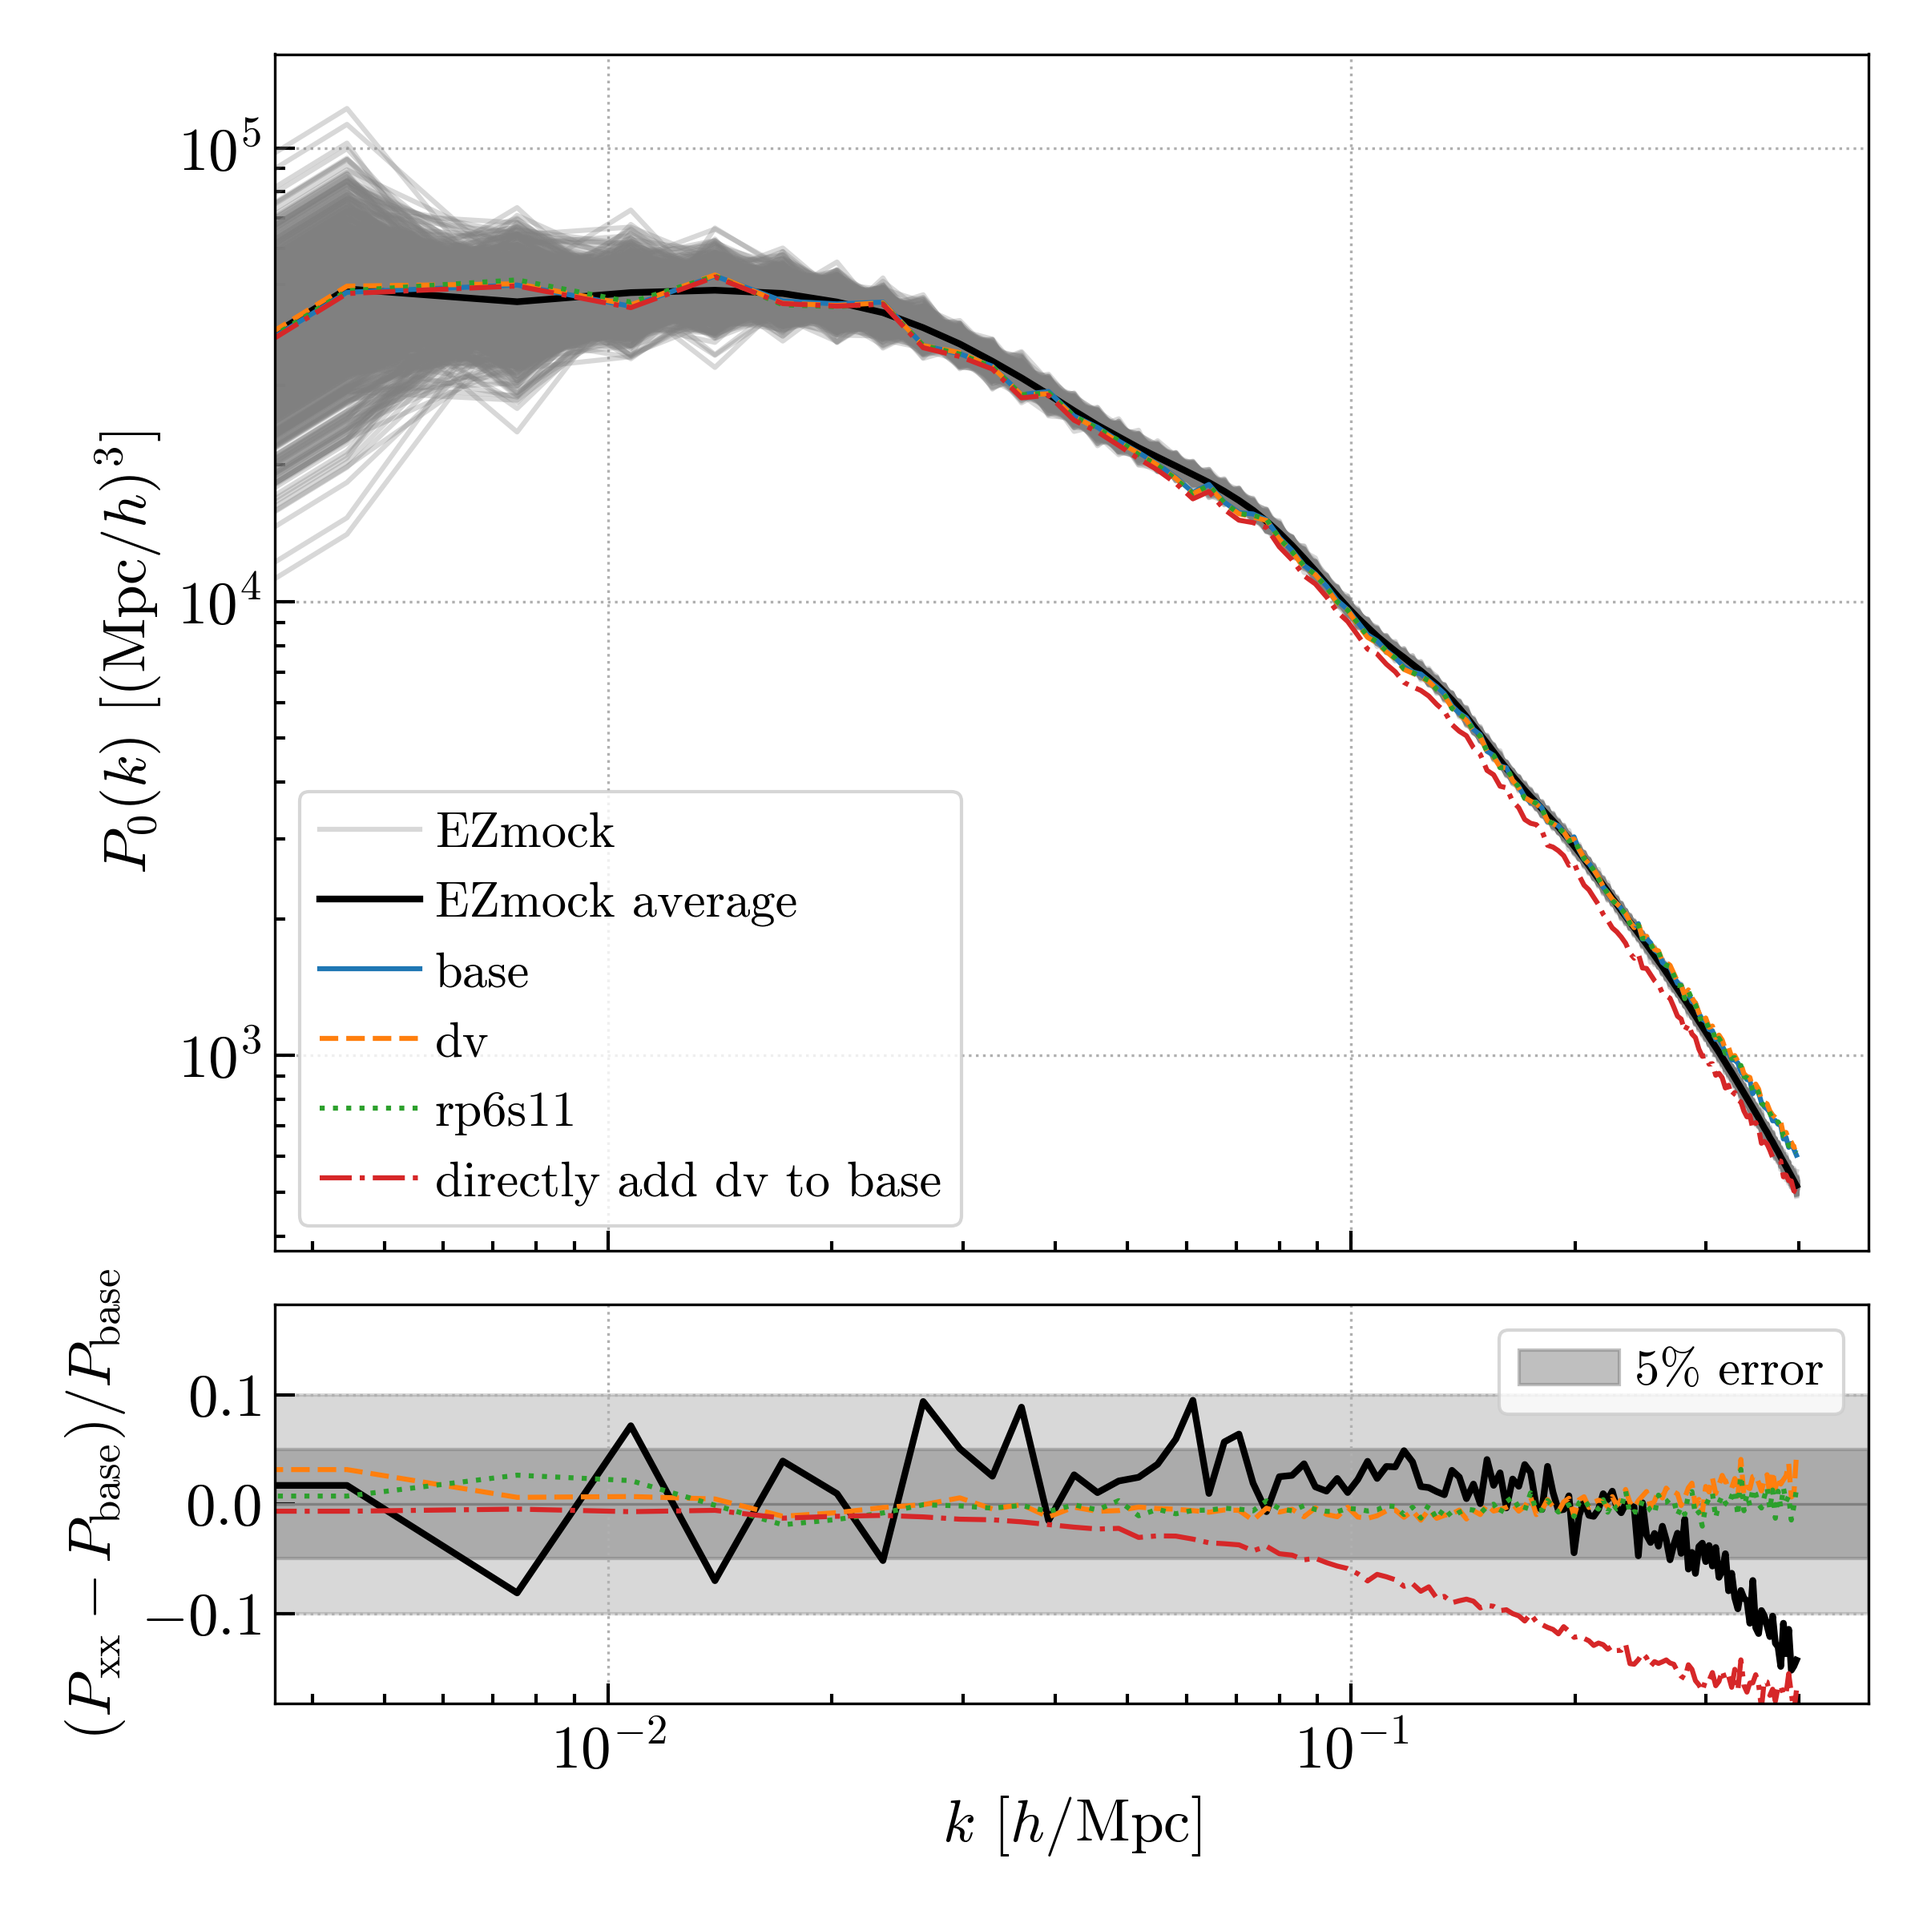
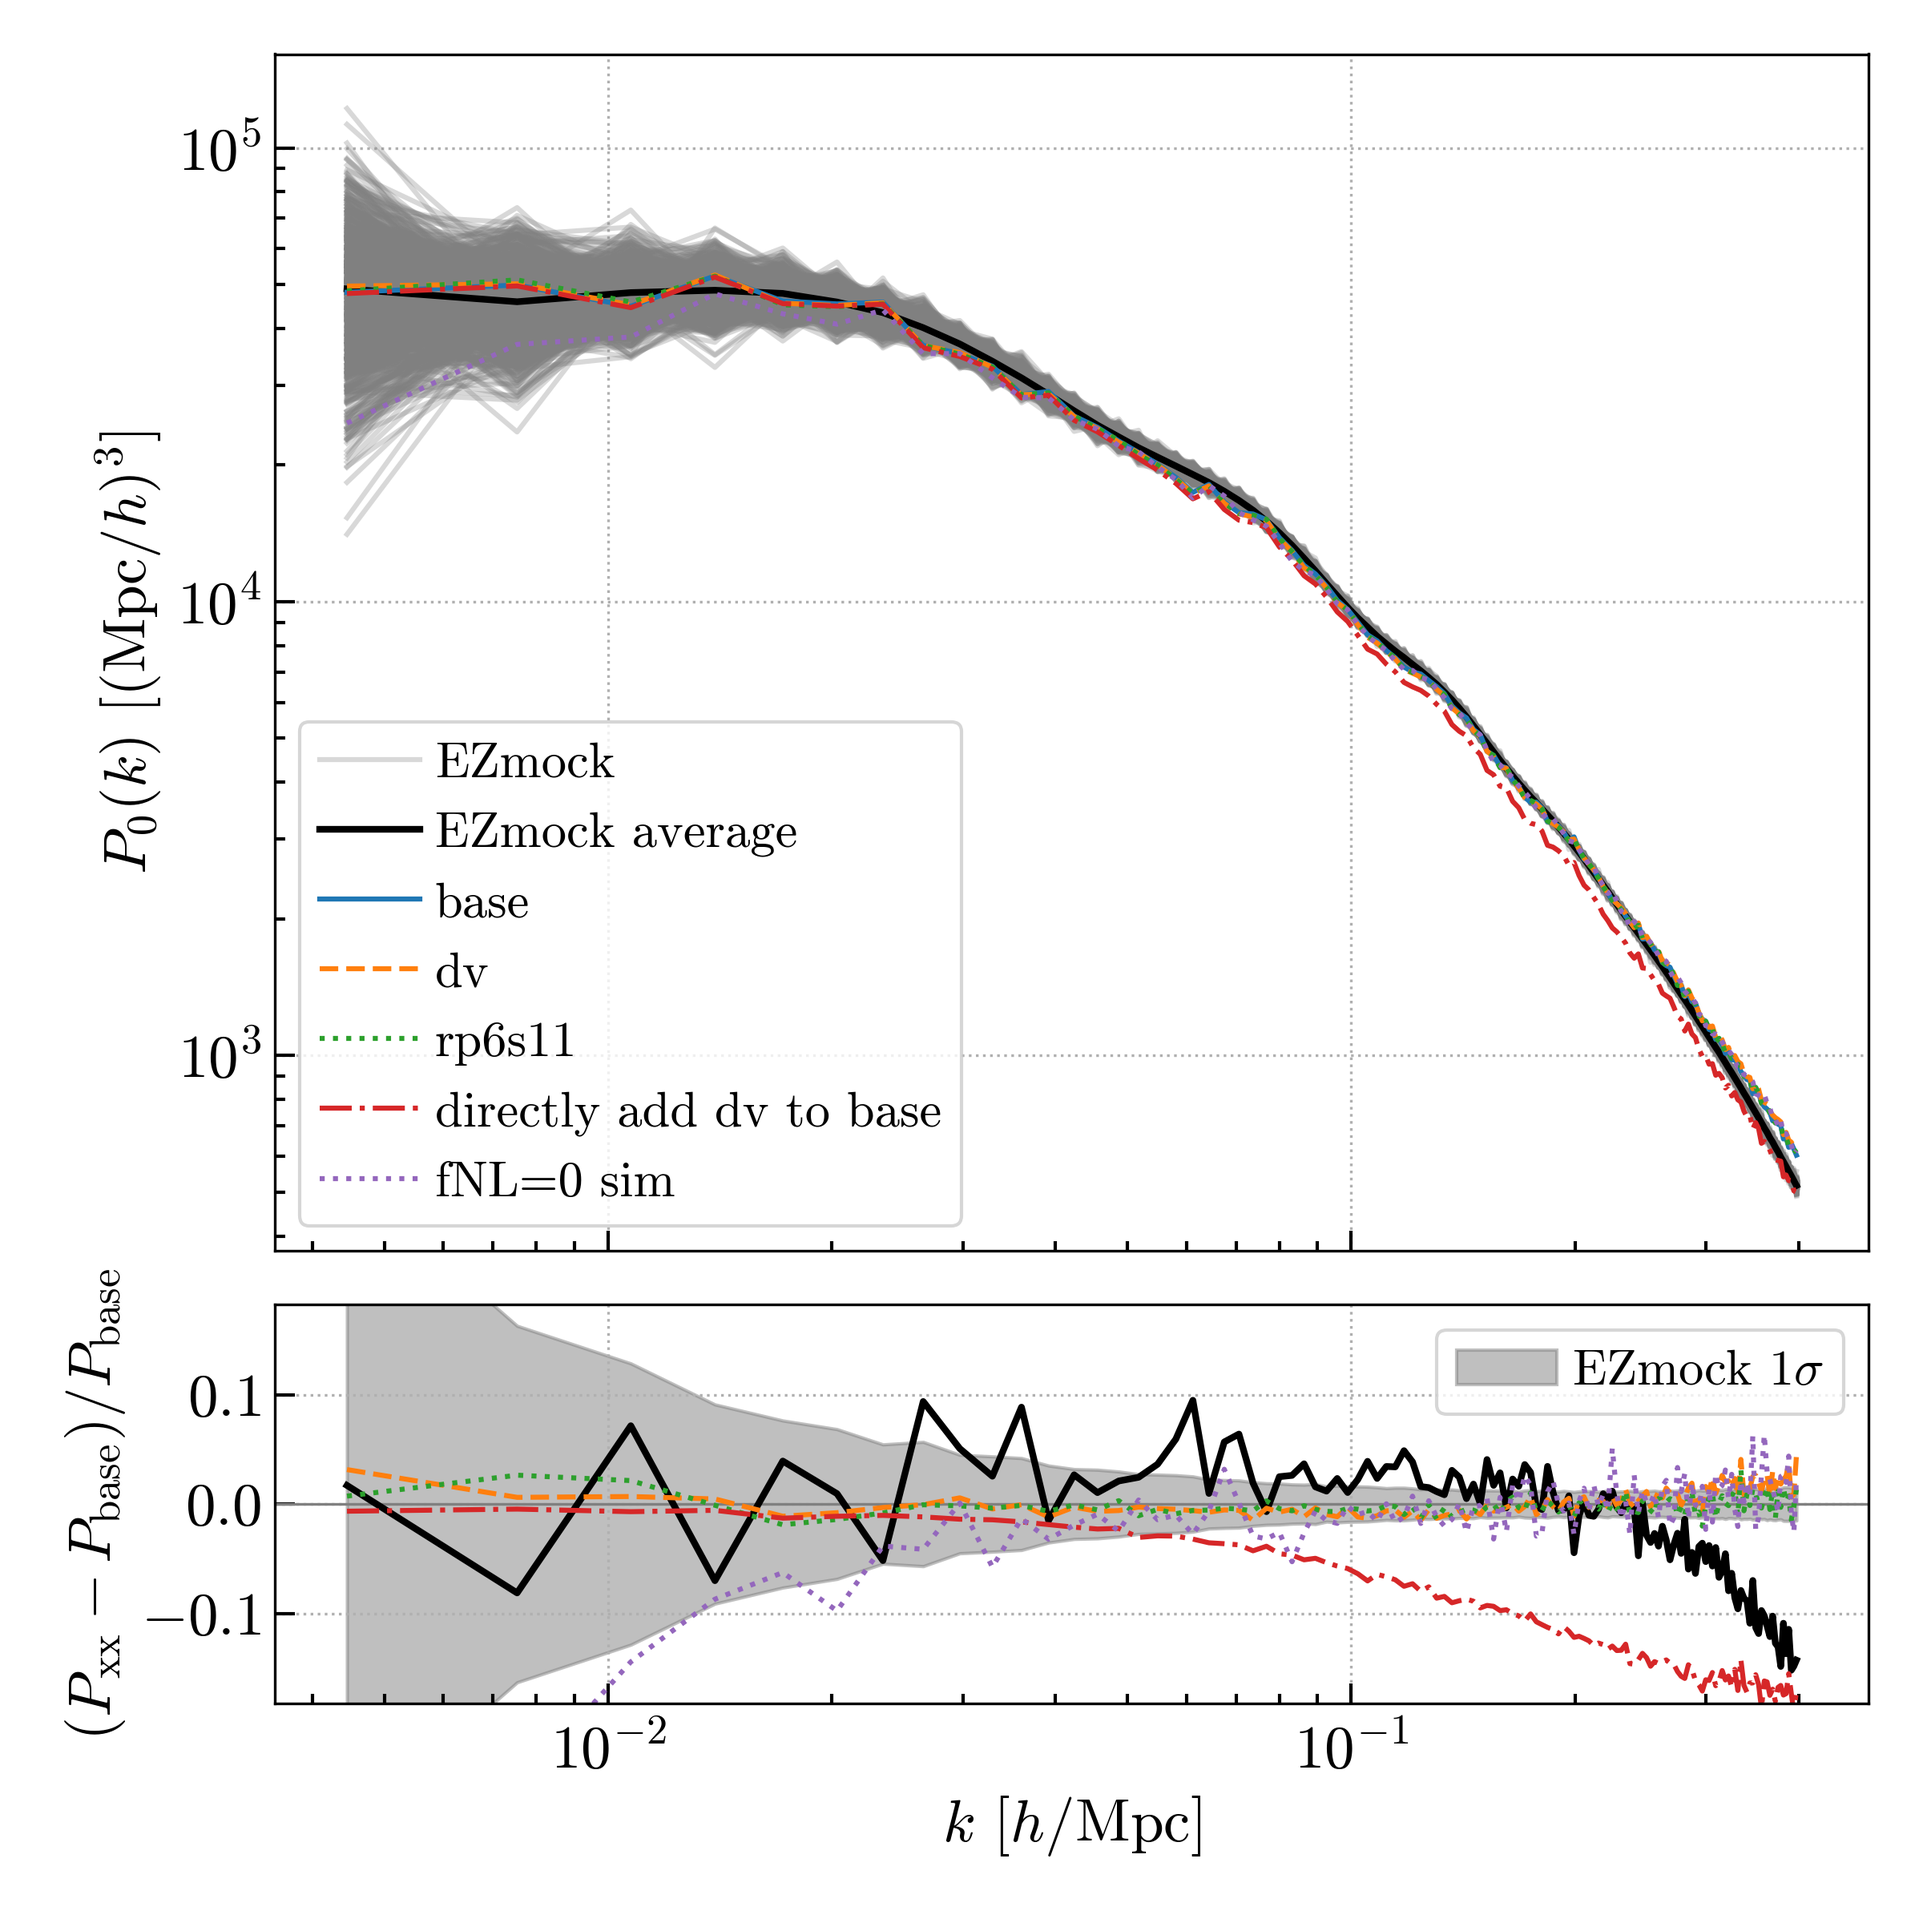
generate EZmocks v1.1 and plot

diff --git a/mock-data-cov/test-z4/plot_ps.py b/mock-data-cov/test-z4/plot_ps.py
@@ -24,20 +24,28 @@ kr, Pr = poles_rp6s11(ell=0, return_k=True, complex=False)
 # directly add dv
 poles300_qso_dv = PowerSpectrumMultipoles.load('/pscratch/sd/s/siyizhao/desi-dr2-hod/mocks/Abacus_pngbase_c300_ph000/z2.000/galaxies_rsd_dv/ps_n256.npy')
 kb_adv, Pb_adv = poles300_qso_dv(ell=0, return_k=True, complex=False)
+# on fNL=0 simulation
+poles_c000 = PowerSpectrumMultipoles.load('/pscratch/sd/s/siyizhao/desi-dr2-hod/mocks/AbacusSummit_base_c000_ph000/z2.000/galaxies_rsd_dv/pypower_poles.npy')
+kc, Pc = poles_c000(ell=0, return_k=True, complex=False)
 
 ## EZmocks
-# files = glob.glob('/pscratch/sd/s/siyizhao/EZmock/output/mocks/QSO-z4_c300/pypowerpoles_seed*.npz')
 files = glob.glob('/pscratch/sd/s/siyizhao/EZmock/output/mocks/QSO-z4_c300/pypowerpoles_r*.npy')
+# files = glob.glob('/pscratch/sd/s/siyizhao/EZmock/output/mocks/QSO-z4_c300_fnl200/pypowerpoles_*.npz')
 # 不排序，直接按 glob 返回的顺序遍历所有文件
 p0_ez = []
+# poles_list = []
 for fn in files:
     # data = np.load(fn, allow_pickle=True)
     # poles = data['poles'].item()  # PowerSpectrumMultipoles object
+    # poles_list.append(poles)
     poles = PowerSpectrumMultipoles.load(fn) 
     k, p0 = poles(ell=0, return_k=True, complex=False)
     p0_ez.append(p0)
 p0_ez_avg = np.mean(p0_ez, axis=0)
-    
+# np.savez('/pscratch/sd/s/siyizhao/EZmock/output/mocks/QSO-z4_c300_fnl200/ps_ezmocks_QSO-z4_fnl200.npz', poles_list)
+# cov = np.cov(np.array(p0_ez).T)
+# p0_err = np.sqrt(np.diag(cov))
+p0_err = np.std(p0_ez, axis=0)
     
 # Plot -------------------------------------------------------------------------
 
@@ -45,15 +53,16 @@ fig, axs = plt.subplots(2,1,constrained_layout=True,sharex='col',figsize=(8,8),g
 
 # top panel: EZmocks
 p = p0_ez[0]
-axs[0].plot(k, p, color='gray', alpha=0.3, label='EZmock')
+axs[0].plot(k[1:], p[1:], color='gray', alpha=0.3, label='EZmock')
 for p in p0_ez[1:]:
-    axs[0].plot(k, p, color='gray', alpha=0.3)
-axs[0].plot(k, p0_ez_avg, color='black', lw=2, label='EZmock average')
+    axs[0].plot(k[1:], p[1:], color='gray', alpha=0.3)
+axs[0].plot(k[1:], p0_ez_avg[1:], color='black', lw=2, label='EZmock average')
 # top panel: original spectra
-axs[0].plot(kb, Pb, label='base', color=color[0])
-axs[0].plot(kd, Pd, '--', label='dv', color=color[1])
-axs[0].plot(kr, Pr, ':', label='rp6s11', color=color[2])
-axs[0].plot(kb_adv, Pb_adv, '-.', label='directly add dv to base', color=color[3])
+axs[0].plot(kb[1:], Pb[1:], label='base', color=color[0])
+axs[0].plot(kd[1:], Pd[1:], '--', label='dv', color=color[1])
+axs[0].plot(kr[1:], Pr[1:], ':', label='rp6s11', color=color[2])
+axs[0].plot(kb_adv[1:], Pb_adv[1:], '-.', label='directly add dv to base', color=color[3])
+axs[0].plot(kc[1:], Pc[1:], ':', label='fNL=0 sim', color=color[4])
 axs[0].set_xscale('log')
 axs[0].set_yscale('log')
 axs[0].set_ylabel(r'$P_0(k)$ [$(\mathrm{Mpc}/h)^{3}$]')
@@ -64,21 +73,35 @@ frac_ez = (p0_ez_avg - Pb) / Pb
 frac_dv = (Pd - Pb) / Pb
 frac_rp = (Pr - Pb) / Pb
 frac_adv = (Pb_adv - Pb) / Pb
+frac_err = p0_err / Pb
+print(p0_err)
+frac_c000 = (Pc - Pb) / Pb
+# frac_ez = (p0_ez_avg - Pb) / p0_err
+# frac_dv = (Pd - Pb) / p0_err 
+# frac_rp = (Pr - Pb) / p0_err
+# frac_adv = (Pb_adv - Pb) / p0_err
+# frac_c000 = (Pc - Pb) / p0_err
 
 axs[1].axhline(0, color='gray', lw=0.8)
-axs[1].plot(k, frac_ez, color='black', lw=2)
-axs[1].plot(kb, frac_dv, '--', color=color[1])
-axs[1].plot(kb, frac_rp, ':', color=color[2])
-axs[1].plot(kb, frac_adv, '-.', color=color[3])
+axs[1].plot(k[1:], frac_ez[1:], color='black', lw=2)
+axs[1].plot(kb[1:], frac_dv[1:], '--', color=color[1])
+axs[1].plot(kb[1:], frac_rp[1:], ':', color=color[2])
+axs[1].plot(kb[1:], frac_adv[1:], '-.', color=color[3])
+axs[1].fill_between(k[1:], - frac_err[1:], frac_err[1:], color='gray', alpha=0.5, label=r'EZmock $1\sigma$')
+axs[1].plot(kc[1:], frac_c000[1:], ':', color=color[4])
 axs[1].set_xscale('log')
 axs[1].set_xlabel(r'$k$ [$h/\mathrm{Mpc}$]')
 axs[1].set_ylabel(r'$(P_{\rm xx}-P_{\rm base})/P_{\rm base}$')
+# axs[1].set_ylabel(r'$(P_{\rm xx}-P_{\rm base})/\sigma P$')
 # set sensible symmetric y-limits based on data
 m = np.nanmax(np.abs(np.hstack([frac_ez, frac_dv, frac_rp])))
+# axs[1].axhspan(-0.05, 0.05, color='gray', alpha=0.5, label="5% error")
+# axs[1].axhspan(-0.1, 0.1, color='gray', alpha=0.3)
 ylim = max(0.01, m * 1.2)
-axs[1].axhspan(-0.05, 0.05, color='gray', alpha=0.5, label="5% error")
-axs[1].axhspan(-0.1, 0.1, color='gray', alpha=0.3)
+# axs[1].axhspan(-1, 1, color='gray', alpha=0.5, label=r"$1 \sigma$")
+# axs[1].axhspan(-3, 3, color='gray', alpha=0.3, label=r"$3 \sigma$")
+# ylim = 5
 axs[1].set_ylim(-ylim, ylim)
-axs[1].legend(loc='upper right')
+axs[1].legend()
 plt.tight_layout()
 plt.savefig('test-z4/ps_comparison.png', dpi=300)

diff --git a/mock-data-cov/scripts/plot_ps.py b/mock-data-cov/scripts/plot_ps.py
@@ -1,0 +1,92 @@
+# !/usr/bin/env python3
+# the workdir is ~/projects/fihobi/mock-data-cov/
+# pypower requires `source /global/common/software/desi/users/adematti/cosmodesi_environment.sh main` on NERSC
+
+import argparse
+import sys
+import numpy as np
+import glob
+from pypower import PowerSpectrumMultipoles
+from matplotlib import pyplot as plt
+import matplotlib as mpl
+mpl.rc_file('../fig/matplotlibrc')
+color = ['#1f77b4', '#ff7f0e', '#2ca02c', '#d62728', '#9467bd', '#8c564b', '#e377c2', '#7f7f7f', '#bcbd22', '#17becf']
+
+def parse_args():
+    parser = argparse.ArgumentParser(description='Plot power spectra for a redshift bin.')
+    parser.add_argument('--tag', type=str, required=True, help='Tag for the mock (e.g., z1, z2, etc.)')
+    parser.add_argument('--dirEZmocks', type=str, help='Directory of EZmocks to plot. If empty, skip EZmocks plotting.')
+    return parser.parse_args()
+args = parse_args()
+tag = args.tag
+dirEZmocks = args.dirEZmocks if args.dirEZmocks else None
+
+# Data -------------------------------------------------------------------------
+z_mock = {'z1': 0.95, 'z2': 1.25, 'z3': 1.55, 'z4': 2.0, 'z5': 2.5, 'z6': 3.0}
+z = z_mock[tag]
+dir_c300_dv=f'/pscratch/sd/s/siyizhao/desi-dr2-hod/mocks/Abacus_pngbase_c300_ph000/z{z:.3f}/galaxies_rsd_dv/'
+dir_c302=f'/pscratch/sd/s/siyizhao/desi-dr2-hod/mocks/Abacus_pngbase_c302_ph000/z{z:.3f}/galaxies_rsd/'
+dir_c302_dv=f'/pscratch/sd/s/siyizhao/desi-dr2-hod/mocks/Abacus_pngbase_c302_ph000/z{z:.3f}/galaxies_rsd_dv/'
+poles_c302 = PowerSpectrumMultipoles.load(dir_c302 + 'pypower_poles.npy')
+poles_c300_dv = PowerSpectrumMultipoles.load(dir_c300_dv + 'pypower_poles.npy')
+poles_c302_dv = PowerSpectrumMultipoles.load(dir_c302_dv + 'pypower_poles.npy')
+k, P0_c302 = poles_c302(ell=0, return_k=True, complex=False)
+k_tmp1, P0_c302_dv = poles_c302_dv(ell=0, return_k=True, complex=False)
+k_tmp2, P0_c300_dv = poles_c300_dv(ell=0, return_k=True, complex=False)
+# ignore NaNs when comparing k arrays
+if not (np.allclose(k_tmp1, k, equal_nan=True) and np.allclose(k_tmp2, k, equal_nan=True)):
+    raise ValueError("k arrays do not match!")
+
+if dirEZmocks is not None:
+    files = glob.glob(dirEZmocks+f'/pypowerpoles_r*.npy')
+    p0_ez = []
+    for fn in files:
+        poles = PowerSpectrumMultipoles.load(fn) 
+        k_ez, p0 = poles(ell=0, return_k=True, complex=False)
+        p0_ez.append(p0)
+    p0_ez_avg = np.mean(p0_ez, axis=0)
+    p0_err = np.std(p0_ez, axis=0)
+    print(f"Loaded {len(files)} EZmock power spectra from {dirEZmocks}")
+# Plot -------------------------------------------------------------------------
+
+fig, axs = plt.subplots(2,1,constrained_layout=True,sharex='col',figsize=(8,8),gridspec_kw={'height_ratios': [3, 1]})
+
+if dirEZmocks is not None:
+    # top panel: EZmocks
+    p = p0_ez[0]
+    axs[0].plot(k_ez[1:], p[1:], color='gray', alpha=0.3, label='EZmock')
+    for p in p0_ez[1:]:
+        axs[0].plot(k_ez[1:], p[1:], color='gray', alpha=0.3)
+    axs[0].plot(k_ez[1:], p0_ez_avg[1:], color='black', lw=2, label='EZmock average')
+    frac_ez = p0_ez_avg / P0_c302_dv - 1
+    frac_err = p0_err / P0_c302_dv 
+    axs[1].plot(k[1:], frac_ez[1:], color='black', lw=2)
+    axs[1].fill_between(k[1:], - frac_err[1:], frac_err[1:], color='gray', alpha=0.5, label=r'EZmock $1\sigma$')    
+# top panel: original spectra
+axs[0].plot(k[1:], P0_c302_dv[1:], label='base: fNL=100, dv', color=color[0])
+axs[0].plot(k[1:], P0_c302[1:], '--', label='fNL=100', color=color[1])
+axs[0].plot(k[1:], P0_c300_dv[1:], ':', label='fNL=30, dv', color=color[2])
+axs[0].set_xscale('log')
+axs[0].set_yscale('log')
+axs[0].set_ylabel(r'$P_0(k)$ [$(\mathrm{Mpc}/h)^{3}$]')
+axs[0].legend()
+
+# bottom panel: fractional errors (P_variant - P_base) / P_base
+frac_c302 = P0_c302 / P0_c302_dv - 1
+frac_c300_dv = P0_c300_dv / P0_c302_dv - 1
+axs[1].axhline(0, color='gray', lw=0.8)
+axs[1].plot(k[1:], frac_c302[1:], '--', color=color[1])
+axs[1].plot(k[1:], frac_c300_dv[1:], ':', color=color[2])
+axs[1].set_xscale('log')
+axs[1].set_xlabel(r'$k$ [$h/\mathrm{Mpc}$]')
+axs[1].set_ylabel(r'$P^{\rm xx}/P^{\rm base}-1$')
+# set sensible symmetric y-limits based on data
+m = np.nanmax(np.abs(np.hstack([frac_c302[1:]])))
+# axs[1].axhspan(-0.05, 0.05, color='gray', alpha=0.5, label="5% error")
+# axs[1].axhspan(-0.1, 0.1, color='gray', alpha=0.3)
+# ylim = max(0.01, m * 1.2)
+ylim=0.2
+axs[1].set_ylim(-ylim, ylim)
+axs[1].legend()
+plt.tight_layout()
+plt.savefig(f'out/ps_comparison{tag}.png', dpi=300)

diff --git a/mock-data-cov/scripts/genEZmockPNG.py b/mock-data-cov/scripts/genEZmockPNG.py
@@ -42,6 +42,7 @@ run_disp_2lpt(seed=seed, redshift=redshift, fnl=fnl, Ngrid=Ngrid, Lbox=Lbox, fix
 # generate EZmock and save -----------------------------------------------------
 # ensure the Python process (and libraries) use the desired thread count for EZmock
 print(f"Generating EZmock for seed {seed}...")
+print(f"nthread={nthread}")
 ez = EZmock(Lbox=Lbox, Ngrid=Ngrid, seed=EZseed, nthread=nthread)
 ez.eval_growth_params(z_out=redshift, z_pk=z_pk, Omega_m=Omega_m0, Omega_nu=Omega_nu)
 mydx = np.loadtxt(pdir + f'dispx_{seed}.txt')
@@ -63,7 +64,7 @@ print('EZmock generated, now measuring pypower poles...')
 # y = data[:, 1]
 # z_rsd = data[:, 2]
 # poles = run_pypower_redshift(x, y, z_rsd, ells=ells)
-poles = run_pypower(x, y, z, vz, rsd_fac)
+poles = run_pypower(x, y, z, vz, rsd_fac, ells=ells)
 outpath = odir + f'/pypowerpoles_r{seed}.npy'
 poles.save(outpath)
 print(f"Saved pypower poles to {outpath}")

diff --git a/mock-data-cov/scripts/abacus_pkl.py b/mock-data-cov/scripts/abacus_pkl.py
@@ -32,4 +32,4 @@ nmodes = poles.nmodes
 k, pk0 = poles(ell=0, return_k=True, complex=False)
 pk2 = poles(ell=2, return_k=False, complex=False)
 array_form_powspec = np.vstack([k, kmin, kmax, kavg, nmodes, pk0, pk2]).T
-np.savetxt(out_for_EZmock, array_form_powspec)
+np.savetxt(out_for_EZmock, array_form_powspec, header='kcen kmin kmax kavg nmod P_0 P_2')

diff --git a/mock-data-cov/README.md b/mock-data-cov/README.md
@@ -1,9 +1,11 @@
 # Mock Data and Covariance
 
-In this directory, we 
-1. measure the clusterings of AbacusPNG mocks, 
-2. use the clusterings to calibrate the parameters of EZmock, (this part is underway with the help of Zhuoyang Li & Yunyi Tang),
-3. and then generate EZmocks power spectrum multipoles for the covariance matrix.
+Here we prepare the data and covariance for the PNG inferences.
+
+The main tasks:
+1. Measure the power spectrum of AbacusPNG mocks with `pypower`. Refer to `mock_ps.sh`, where *for one sample* we measure the power spectra of best-fit HOD mocks in different settings of simulations and HOD models, and then compare them with a plot @ mock-data-cov/out
+2. Calibrate the parameters of EZmock, (this part works elsewhere and with the help of Zhuoyang Li, Yunyi Tang & Cheng Zhao),
+3. Generate EZmocks power spectrum multipoles for the covariance matrix. Refer to `genEZmocks.sh`. (You may want to replot with `plot_ps.py` in `scripts/` once the EZmocks are generated.)
 
 ## Measure AbacusPNG mocks
 
@@ -16,6 +18,7 @@ Please refer to `genEZmocks.sh` for the script, where we generate EZmocks with P
 
 - `sleep 1` 52:39 for 500 realizations.
 - no `sleep` 53:39 for 500 realizations.
+- delete write `rand_ampl` and `rand_phase` files in 2LPT code. Now no `sleep`, around 1 hour for 500 realizations with 512^3 on 4 nodes.
 
 
 ## Other Works 
